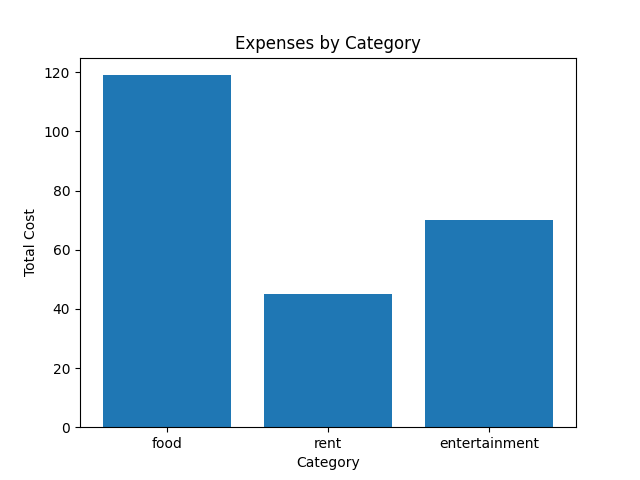
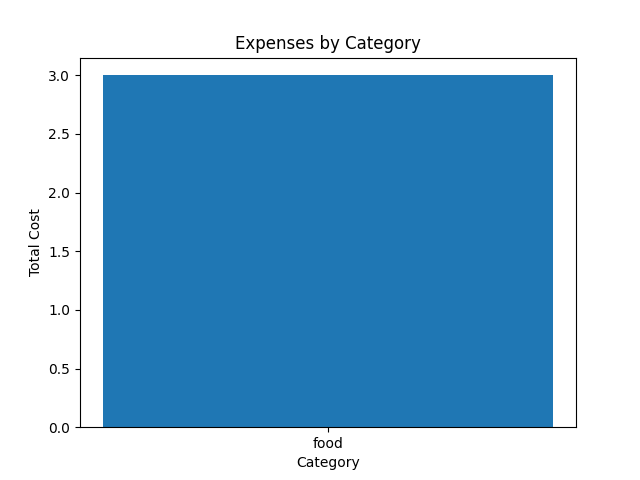
Separated pages

diff --git a/BudgetWebsite/Templates/add_expense.html b/BudgetWebsite/Templates/add_expense.html
@@ -4,6 +4,13 @@
   </head>
   <body>
     <h1>Add Expense</h1>
+    <input type="radio" name="expense-income" value="expense" checked>
+    Expense
+  </label>
+  <label>
+    <input type="radio" name="expense-income" value="income">
+    Income
+  </label><br><br>
     <form method="post" action="/add_expense">
       <label>Name:</label>
       <input type="text" name="name"><br><br>
@@ -11,49 +18,26 @@
       <input type="number" name="cost" step="0.01"><br><br>
       <label>Date:</label>
       <input type="date" name="date" value="{{ today }}"><br><br>
-      <label>Category:</label>
-      <select name="category">
-        {% for category in categories %}
-        <option value="{{ category }}">{{ category }}</option>
-        {% endfor %}
-      </select>
-      <input type="text" name="new_category" placeholder="New Category"><br><br>
-      <input type="submit" value="Add Expense">
-    </form>
-
-    <h1>Display Data</h1>
-    <form method="POST">
-      <label for="start-date">Start Date:</label>
-      <input type="date" id="start-date" name="start-date">
-      
-      <label for="end-date">End Date:</label>
-      <input type="date" id="end-date" name="end-date">
-      
-      <label for="category">Category:</label>
-      <select id="category" name="category">
-        {% for category in categories %}
+      <label>
+        <label>Category:</label>
+        <select name="category" onchange="showOtherOption(this)">
+          {% for category in categories %}
           <option value="{{ category }}">{{ category }}</option>
-        {% endfor %}
-      </select>
-      <input type="submit" value="Add Expense">
+          {% endfor %}
+          <option value="other">Other</option>
+        </select>
+        <input type="text" name="other_category" id="other-category" style="display: none;">
+        <script>
+        function showOtherOption(select) {
+          var otherInput = document.getElementById('other-category');
+          if (select.value == 'other') {
+            otherInput.style.display = 'inline-block';
+            otherInput.focus();
+          } else {
+            otherInput.style.display = 'none';
+          }
+        }
+        </script><br><br>
+      <input type="submit" value="Add Expense" id="add-expense-btn">
     </form>
-    <img src="{{ chart_file }}" alt="Expenses by Category">
-  </body>
-  <h1>All Expenses</h1>
-  <table>
-    <tr>
-      <th>Name</th>
-      <th>Cost</th>
-      <th>Date</th>
-      <th>Category</th>
-    </tr>
-    {% for expense in expenses %}
-      <tr>
-        <td>{{ expense.name }}</td>
-        <td>{{ expense.cost }}</td>
-        <td>{{ expense.date.strftime('%Y-%m-%d') }}</td>
-        <td>{{ expense.category }}</td>
-      </tr>
-    {% endfor %}
-  </table>
 </html>

diff --git a/BudgetWebsite/Templates/display_data.html b/BudgetWebsite/Templates/display_data.html
@@ -1,0 +1,52 @@
+<h1>Display Data</h1>
+<form method="POST">
+  <label for="start-date">Start Date:</label>
+  <input type="date" id="start-date" name="start-date">
+  
+  <label for="end-date">End Date:</label>
+  <input type="date" id="end-date" name="end-date">
+  
+  <label for="category">Category:</label>
+  <select id="category" name="category">
+    {% for category in categories %}
+      <option value="{{ category }}">{{ category }}</option>
+    {% endfor %}
+  </select>
+  <input type="submit" value="Add Expense">
+</form>
+<img src="{{ chart_file }}" alt="Expenses by Category">
+</body>
+
+<h1>All Expenses</h1>
+<table>
+  <tr>
+    <th>Name</th>
+    <th>Cost</th>
+    <th>Date</th>
+    <th>Category</th>
+  </tr>
+  {% for expense in expenses %}
+    <tr>
+      <td>{{ expense.name }}</td>
+      <td>{{ expense.cost }}</td>
+      <td>{{ expense.date.strftime('%m-%d-%Y') }}</td>
+      <td>{{ expense.category }}</td>
+    </tr>
+  {% endfor %}
+</table>
+
+<h1>All Incomes</h1>
+<table>
+<tr>
+  <th>Source</th>
+  <th>Value</th>
+  <th>Date</th>
+</tr>
+{% for income in incomes %}
+  <tr>
+    <td>{{ income.source }}</td>
+    <td>{{ income.value }}</td>
+    <td>{{ income.date.strftime('%m-%d-%Y') }}</td>
+  </tr>
+{% endfor %}
+</table>

diff --git a/BudgetWebsite/main.py b/BudgetWebsite/main.py
@@ -1,7 +1,6 @@
 from flask import Flask, request, render_template
 from flask_sqlalchemy import SQLAlchemy
 from datetime import date, datetime
-
 import matplotlib.pyplot as plt
 import os
 
@@ -17,87 +16,65 @@ class Expense(db.Model):
     date = db.Column(db.Date, nullable=False)
     category = db.Column(db.String(50), nullable=False)
 
+class Income(db.Model):
+    id = db.Column(db.Integer, primary_key=True)
+    source = db.Column(db.String(80), nullable=False)
+    value = db.Column(db.Float, nullable=False)
+    date = db.Column(db.Date, nullable=False)
+
 @app.route('/add_expense', methods=['POST'])
 def add_expense():
+    type = request.form['expense-income']
     name = request.form['name']
     cost = request.form['cost']
     category = request.form['category']
-    new_category = request.form['new_category']
+    # new_category = request.form['new_category']
+    date_str = request.form['date']
     date_str = request.form['date']
 
     if not date_str:
         today = date.today()
         date_str = today.strftime('%Y-%m-%d')
 
-    if new_category:
-        category = new_category
+    # if new_category:
+    #     category = new_category
 
     date_obj = datetime.strptime(date_str, '%Y-%m-%d').date()
 
-    expense = Expense(name=name, cost=cost, category=category, date=date_obj)
-    db.session.add(expense)
-    db.session.commit()
-
-    return 'Expense added!'
-
-@app.route('/expenses')
-def list_expenses():
-    expenses = Expense.query.order_by(Expense.date.desc()).all()
-    return render_template('expenses.html', expenses=expenses)
-
-
-from datetime import datetime
-
-@app.route('/', methods=['GET', 'POST'])
-def index():
-    # Get the selected category and date range from the form
-    selected_category = request.form.get('category')
-    start_date_str = request.form.get('start_date')
-    end_date_str = request.form.get('end_date')
-
-    # Parse the start and end dates
-    start_date = datetime.strptime(start_date_str, '%Y-%m-%d').date() if start_date_str else None
-    end_date = datetime.strptime(end_date_str, '%Y-%m-%d').date() if end_date_str else None
-
-    # Get the expenses that match the selected category and date range
-    if selected_category:
-        expenses = Expense.query.filter_by(category=selected_category)
+    if type == 'income':
+        income = Income(source=name, value=cost, date=date_obj)
+        db.session.add(income)
     else:
-        expenses = Expense.query
+        expense = Expense(name=name, cost=cost, category=category, date=date_obj)
+        db.session.add(expense)
 
-    if start_date:
-        expenses = expenses.filter(Expense.date >= start_date)
+    db.session.commit()
+    
+    categories = list(set(expense.category for expense in Expense.query.all()))
 
-    if end_date:
-        expenses = expenses.filter(Expense.date <= end_date)
+    return render_template('add_expense.html', categories=list(categories))
 
-    expenses = expenses.all()
-
-    # Calculate the total cost of the expenses
+@app.route('/display')
+def display():
+    # get expenses with the selected category
+    selected_category = request.form.get('category')
+    
+    expenses = Expense.query.filter_by(category=selected_category).all()
     total = sum(expense.cost for expense in expenses)
 
-    # Get the list of categories and today's date
-    categories = ['food', 'rent', 'entertainment']
-    today = date.today().strftime('%Y-%m-%d')
+    # Get the list of categories from the database
+    categories = list(set(expense.category for expense in Expense.query.all()))
 
     # Get the sum of expenses for each category
-    data = []
-
+    totalCosts = []
     for category in categories:
-        expenses_by_category = Expense.query.filter_by(category=category)
-
-        if start_date:
-            expenses_by_category = expenses_by_category.filter(Expense.date >= start_date)
-
-        if end_date:
-            expenses_by_category = expenses_by_category.filter(Expense.date <= end_date)
-
-        total_by_category = sum(expense.cost for expense in expenses_by_category)
-        data.append(total_by_category)
+        expenses = Expense.query.filter_by(category=category)
+        total = sum(expense.cost for expense in expenses)
+        totalCosts.append(total)
 
     # Display the data in a bar chart
     fig, ax = plt.subplots()
-    ax.bar(categories, data)
+    ax.bar(categories, totalCosts)
     ax.set_xlabel('Category')
     ax.set_ylabel('Total Cost')
     ax.set_title('Expenses by Category')
@@ -110,18 +87,30 @@ def index():
     if not os.path.exists(chart_file):
         # Generate the chart and save it to the file
         fig, ax = plt.subplots()
-        ax.bar(categories, data)
+        ax.bar(categories, totalCosts)
         ax.set_xlabel('Category')
         ax.set_ylabel('Total Cost')
         ax.set_title('Expenses by Category')
         plt.savefig(chart_file)
 
     expenses = Expense.query.order_by(Expense.date.desc()).all()
-    return render_template('add_expense.html', categories=list(categories), today=today, chart_file=chart_file, expenses=expenses)
+    incomes = Income.query.order_by(Income.date.desc()).all()
+    return render_template('display_data.html',chart_file=chart_file, expenses=expenses, incomes=incomes)
 
 
 
+@app.route('/', methods=['GET', 'POST'])
+def index():
+
+    categories = list(set(expense.category for expense in Expense.query.all()))
+    return render_template('add_expense.html', categories=list(categories))
 
 if __name__ == '__main__':
-    db.create_all()
+    with app.app_context():
+        db.create_all()
     app.run(debug=True)
+
+
+
+
+
